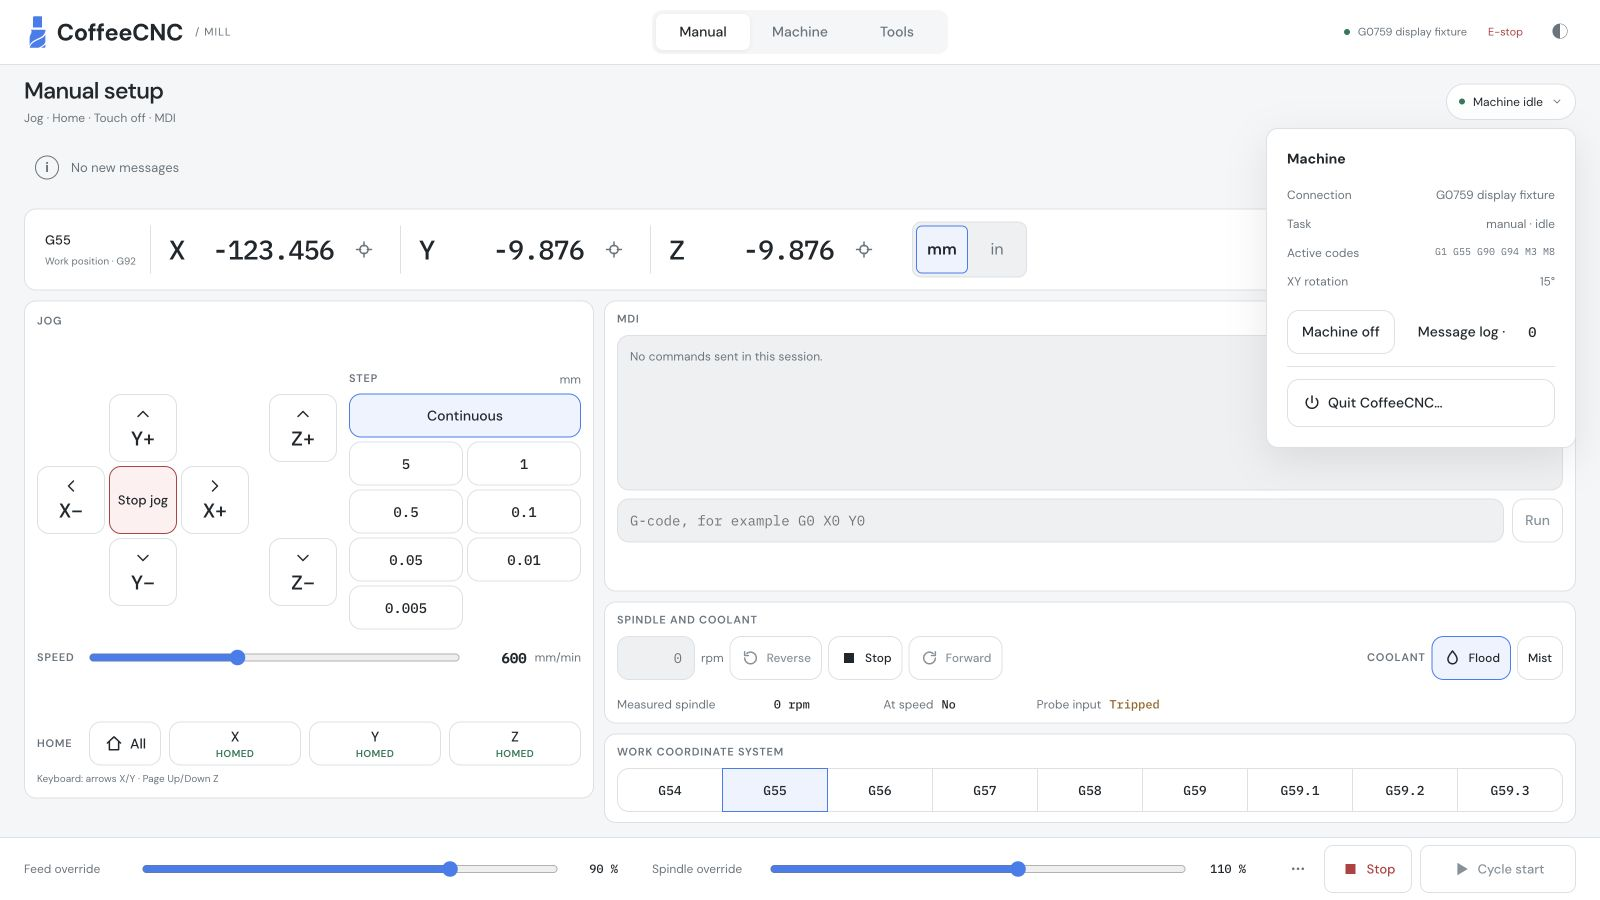
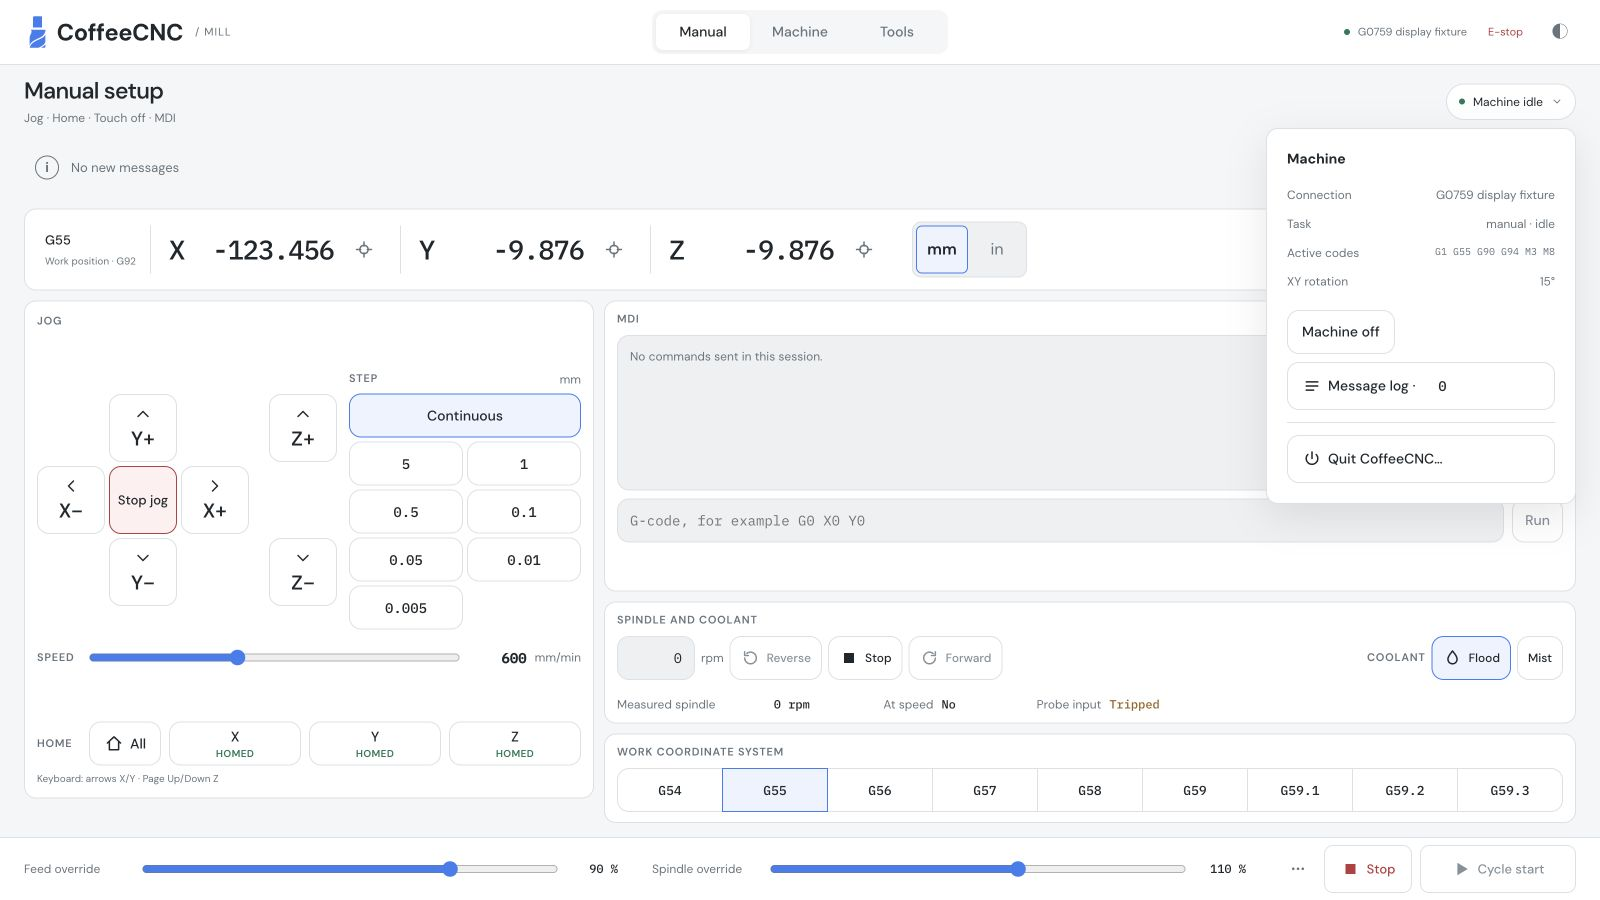
Apply running spindle RPM only on explicit confirmation

Changed region(s): [[0.7812, 0.4044, 1.0, 0.5289], [0.875, 0.3422, 0.9375, 0.3733]]

diff --git a/ui/test/spindle-speed.test.ts b/ui/test/spindle-speed.test.ts
@@ -1,0 +1,146 @@
+import { afterEach, beforeEach, describe, expect, it, vi } from 'vitest'
+import { mount, type VueWrapper } from '@vue/test-utils'
+import { defineComponent, nextTick } from 'vue'
+import ManualTab from '../src/components/ManualTab.vue'
+import NumericEntryDialog from '../src/components/NumericEntryDialog.vue'
+import { panel, send } from '../src/machine'
+import { numericEntry, touchInput } from '../src/numeric-input'
+import { hello, SimMachine } from '../src/sim/machine'
+
+vi.mock('../src/machine', async () => {
+  const { computed, reactive } = await import('vue')
+  const { requiresHoming } = await import('../src/machine-capabilities')
+  const panel = reactive({ hello: null, status: null, link: 'live', unit: 'mm', mdi: [], jogVelocity: 1500, jogIncrement: 1, tab: 'manual', notice: null, log: [] }) as unknown as typeof import('../src/machine').panel
+  return { panel, send: vi.fn(), dismissNotice: vi.fn(), onResult: (): (() => void) => (): void => undefined,
+    axes: computed(() => panel.status?.axes ?? []), reported: computed(() => panel.status),
+    live: computed(() => panel.link === 'live'),
+    manualBlock: computed(() => panel.link !== 'live' ? 'Link unavailable' :
+      panel.status?.machine !== 'on' ? 'Machine unavailable' : panel.status.interp !== 'idle' ? 'Machine busy' : null),
+    mdiBlock: computed(() => null), linkBlock: computed(() => null),
+    allHomed: computed(() => panel.status?.axes.every((axis) => axis.homed) ?? false),
+    homingActive: computed(() => panel.status?.axes.some((axis) => axis.homing) ?? false),
+    homingRequired: computed(() => requiresHoming(panel.hello)),
+  }
+})
+
+let wrapper: VueWrapper | null = null
+const originalScrollTo = Object.getOwnPropertyDescriptor(HTMLElement.prototype, 'scrollTo')
+beforeEach(() => {
+  vi.useFakeTimers(); vi.mocked(send).mockClear()
+  // jsdom has no scrolling implementation; the MDI history scroll is unrelated to this check.
+  Object.defineProperty(HTMLElement.prototype, 'scrollTo', { configurable: true, value: vi.fn() })
+  panel.hello = { ...hello, max_jog_velocity: 1500, axis_max_jog_velocity: { x: 1500, y: 1500, z: 750 } }
+  panel.status = new SimMachine({ emit: (): void => undefined }).status()
+  panel.status.machine = 'on'; panel.status.program.file = '/sim/test.ngc'
+  panel.link = 'live'; panel.unit = 'mm'; touchInput.value = false
+  panel.jogVelocity = 1500; panel.jogIncrement = 1
+})
+afterEach(() => {
+  const element = wrapper?.element as Element | undefined
+  wrapper?.unmount(); element?.remove(); numericEntry.value = null; vi.useRealTimers()
+  if (originalScrollTo === undefined) Reflect.deleteProperty(HTMLElement.prototype, 'scrollTo')
+  else Object.defineProperty(HTMLElement.prototype, 'scrollTo', originalScrollTo)
+})
+
+describe('explicit spindle speed confirmation', () => {
+  function setup(direction: 'forward' | 'reverse' | 'stopped' = 'forward'): NonNullable<typeof wrapper> {
+    if (panel.status === null) throw new Error('Missing status')
+    panel.status.spindle.direction = direction
+    panel.status.spindle.commanded_rpm = 1200
+    wrapper = mount(defineComponent({
+      components: { ManualTab, NumericEntryDialog },
+      template: '<div><ManualTab/><div id="dialogs"></div><div id="workspace-dialogs"></div><NumericEntryDialog/></div>',
+    }), { attachTo: document.body })
+    return wrapper
+  }
+  const selector = 'input[aria-label="Spindle speed, rpm"]'
+
+  it.each(['forward', 'reverse'] as const)('applies %s RPM once on Enter, never on typing or change', async (direction) => {
+    const view = setup(direction)
+    const input = view.get<HTMLInputElement>(selector)
+    expect(input.element.value).toBe('1200')
+    await input.setValue('1800')
+    expect(send).not.toHaveBeenCalled()
+    await input.trigger('keydown', { key: 'Enter' })
+    await input.trigger('keydown', { key: 'Enter', repeat: true })
+    await input.trigger('keydown', { key: 'Enter' })
+    await input.trigger('blur')
+    expect(vi.mocked(send).mock.calls).toEqual([[{ type: 'set_spindle', direction, rpm: 1800 }]])
+  })
+
+  it.each(['blur', 'Escape'])('discards an unconfirmed edit on %s and restores commanded RPM', async (event) => {
+    const view = setup()
+    const input = view.get<HTMLInputElement>(selector)
+    await input.setValue('1800')
+    if (panel.status) panel.status.spindle.commanded_rpm = 1400
+    await input.trigger(event === 'blur' ? 'blur' : 'keydown', { key: 'Escape' })
+    expect(input.element.value).toBe('1400')
+    expect(send).not.toHaveBeenCalled()
+  })
+
+  it('uses the current direction at confirmation, not the direction when editing began', async () => {
+    const view = setup()
+    await view.get(selector).setValue('1800')
+    if (panel.status) panel.status.spindle.direction = 'reverse'
+    await view.get(selector).trigger('keydown', { key: 'Enter' })
+    expect(send).toHaveBeenCalledExactlyOnceWith({ type: 'set_spindle', direction: 'reverse', rpm: 1800 })
+  })
+
+  it('keeps a stopped spindle stopped until an explicit direction button is pressed', async () => {
+    const view = setup('stopped')
+    await view.get(selector).setValue('1800')
+    await view.get(selector).trigger('keydown', { key: 'Enter' })
+    await view.get(selector).trigger('blur')
+    expect(send).not.toHaveBeenCalled()
+    const forward = view.findAll('button').find((button) => button.text() === 'Forward')
+    await forward?.trigger('click')
+    expect(send).toHaveBeenCalledExactlyOnceWith({ type: 'set_spindle', direction: 'forward', rpm: 1800 })
+  })
+
+  it.each(['', '0', '-1', 'no', 'Infinity'])('does not apply invalid RPM %j', async (value) => {
+    const view = setup()
+    await view.get(selector).setValue(value)
+    await view.get(selector).trigger('keydown', { key: 'Enter' })
+    expect(send).not.toHaveBeenCalled()
+  })
+
+  it.each(['stale', 'busy', 'estop', 'hello'] as const)('invalidates a draft after %s', async (change) => {
+    const view = setup()
+    const input = view.get<HTMLInputElement>(selector)
+    await input.setValue('1800')
+    if (change === 'stale') panel.link = 'stale'
+    else if (change === 'hello') panel.hello = { ...hello }
+    else if (panel.status) {
+      if (change === 'busy') panel.status.interp = 'reading'
+      else panel.status.machine = 'estop'
+    }
+    await nextTick()
+    await input.trigger('keydown', { key: 'Enter' })
+    expect(send).not.toHaveBeenCalled()
+    expect(input.element.value).toBe('1200')
+  })
+
+  it('opens the keypad at commanded RPM and applies only its explicit Set RPM action', async () => {
+    const view = setup('reverse')
+    const input = view.get(selector)
+    for (const type of ['pointerdown', 'pointerup']) {
+      const event = new Event(type, { bubbles: true, cancelable: true })
+      Object.defineProperties(event, { pointerType: { value: 'touch' }, pointerId: { value: 1 }, clientX: { value: 0 }, clientY: { value: 0 } })
+      input.element.dispatchEvent(event)
+    }
+    await nextTick()
+    expect(numericEntry.value?.initial).toBe('1200')
+    expect(view.text()).toContain('Applies this RPM immediately')
+    const dialog = view.get('[role="dialog"]')
+    await dialog.get('input').setValue('1800')
+    expect(send).not.toHaveBeenCalled()
+    const confirm = dialog.findAll('button').find((button) => button.text() === 'Set RPM')
+    expect(confirm).toBeDefined()
+    await confirm?.trigger('pointerdown', { pointerType: 'touch' })
+    await confirm?.trigger('pointerup', { pointerType: 'touch' })
+    await confirm?.trigger('click')
+    expect(send).toHaveBeenCalledExactlyOnceWith({ type: 'set_spindle', direction: 'reverse', rpm: 1800 })
+    expect(numericEntry.value).toBeNull()
+  })
+})
+

diff --git a/ui/src/components/ManualTab.vue b/ui/src/components/ManualTab.vue
@@ -298,25 +298,52 @@ watch(
 
 // ---- spindle and coolant ------------------------------------------------------------------------------
 
-const rpmText = ref<string>('')
-const rpm = computed(() => {
-  if (rpmText.value.trim() === '') {
-    return status.value?.spindle.commanded_rpm ?? 0
-  }
-  return parseNumber(rpmText.value)
+const rpmDraft = ref<string | null>(null)
+const presetRpm = ref<number | null>(null)
+const rpmText = computed({
+  get: () => rpmDraft.value ?? String(presetRpm.value ?? status.value?.spindle.commanded_rpm ?? 0),
+  set: (value: string) => { rpmDraft.value = value },
 })
+const rpm = computed(() => parseNumber(rpmText.value))
 const spindleBlock = computed((): string | null => {
   if (manualBlock.value !== null) {
     return manualBlock.value
   }
-  return rpm.value === null || rpm.value <= 0 ? 'Enter a spindle speed above zero' : null
+  return rpm.value === null || !Number.isFinite(rpm.value) || rpm.value <= 0 ? 'Enter a spindle speed above zero' : null
 })
 
 function spindle(direction: 'forward' | 'reverse'): void {
-  if (rpm.value !== null) {
+  if (spindleBlock.value === null && rpm.value !== null) {
     send({ type: 'set_spindle', direction, rpm: rpm.value })
+    presetRpm.value = null
   }
 }
+
+function confirmSpindleSpeed(event: Event): void {
+  if (event instanceof KeyboardEvent && event.repeat) return
+  if (rpmDraft.value === null || spindleBlock.value !== null || rpm.value === null) return
+  const direction = status.value?.spindle.direction
+  if (direction === 'forward' || direction === 'reverse') {
+    send({ type: 'set_spindle', direction, rpm: rpm.value })
+    presetRpm.value = null
+  } else {
+    // Choosing a speed while stopped never starts the spindle.
+    presetRpm.value = rpm.value
+  }
+  rpmDraft.value = null
+}
+
+function discardSpindleEdit(): void {
+  if (rpmDraft.value === null) return
+  rpmDraft.value = null
+  presetRpm.value = null
+}
+
+watch(() => status.value?.spindle.commanded_rpm, () => { presetRpm.value = null })
+watch([(): unknown => panel.hello, manualBlock], () => {
+  rpmDraft.value = null
+  presetRpm.value = null
+}, { flush: 'sync' })
 
 const coolantBlock = computed((): string | null => {
   const s = status.value
@@ -503,9 +530,15 @@ function coolant(which: 'flood' | 'mist'): void {
             class="field mono rpm"
             type="text"
             inputmode="decimal"
-            :placeholder="String(Math.round(status?.spindle.commanded_rpm ?? 0))"
+            :disabled="manualBlock !== null"
             autocomplete="off"
             aria-label="Spindle speed, rpm"
+            data-numeric-effect="Applies this RPM immediately if the spindle is running. When stopped, sets the speed for the next start."
+            data-numeric-action="Set RPM"
+            @numeric-confirm="confirmSpindleSpeed"
+            @keydown.enter.prevent="confirmSpindleSpeed"
+            @keydown.esc.prevent="discardSpindleEdit"
+            @blur="discardSpindleEdit"
           />
           <span class="hint">rpm</span>
           <button v-tooltip="spindleBlock ?? 'Spindle reverse (M4)'" class="btn" type="button" :class="{ on: status?.spindle.direction === 'reverse' }" :disabled="spindleBlock !== null" @click="spindle('reverse')">

diff --git a/ui/src/components/StatusBar.vue b/ui/src/components/StatusBar.vue
@@ -115,7 +115,7 @@ const subtitle = computed(() => {
           <button v-if="status?.machine === 'estop' || status?.machine === 'off'" class="btn" type="button" :disabled="!live" @click="power('off')">Reset E-stop</button>
           <button v-if="status?.machine === 'off'" class="btn" type="button" :disabled="!live" @click="power('on')">Machine on</button>
           <button v-else-if="status?.machine === 'on'" class="btn" type="button" :disabled="panel.link === 'incompatible'" @click="power('off')">Machine off</button>
-          <button class="btn quiet" type="button" @click="emit('log')">Message log · <span class="log-count mono">{{ panel.log.length }}</span></button>
+          <button class="btn menu-log" type="button" @click="emit('log')"><AppIcon name="list" />Message log · <span class="log-count mono">{{ panel.log.length }}</span></button>
         </div>
         <p v-if="pendingPower" class="notice" role="status">Waiting for machine {{ pendingPower.command.state }} confirmation…</p>
         <div class="application-actions">
@@ -164,7 +164,7 @@ h1 { margin: 0; font-size: 23px; line-height: 1.2; letter-spacing: -.7px; font-w
 .state-pill.warn .dot { background: var(--warn); }.state-pill.stop { color: var(--stop); }.state-pill.stop .dot { background: var(--stop); }
 .popover { top: calc(100% + 8px); }.notice { font-size: 12px; color: var(--text-dim); }
 .application-actions { margin-top: 12px; padding-top: 12px; border-top: 1px solid var(--line); }
-.quit { width: 100%; justify-content: flex-start; min-height: 48px; }
+.quit, .menu-log { width: 100%; justify-content: flex-start; min-height: 48px; }
 .modal-codes { max-width: 180px; font-size: 10px; text-align: right; }
 .message-area { flex: none; height: 58px; margin: 0 24px 12px; }
 .message-band { display: flex; align-items: center; gap: 12px; height: 100%; padding: 5px 10px; border: 1px solid var(--line); border-radius: 9px; background: var(--panel); }

diff --git a/ui/src/numeric-input.ts b/ui/src/numeric-input.ts
@@ -9,6 +9,8 @@ interface NumericEntry {
   initial: string
   label: string
   integer: boolean
+  effect?: string
+  action?: string
 }
 export const numericEntry = shallowRef<NumericEntry | null>(null)
 let nextEntry = 0
@@ -50,6 +52,8 @@ export function applyNumericEntry(value: number): boolean {
   target.value = String(value)
   target.dispatchEvent(new Event('input', { bubbles: true }))
   target.dispatchEvent(new Event('change', { bubbles: true }))
+  // Explicit keypad confirmation, distinct from a normal change/blur while typing.
+  target.dispatchEvent(new Event('numeric-confirm', { bubbles: true }))
   numericEntry.value = null
   return true
 }
@@ -71,6 +75,8 @@ export const vNumeric: ObjectDirective<HTMLInputElement, 'inline' | 'integer' | 
         key: ++nextEntry, target: input, initial: input.value,
         label: input.getAttribute('aria-label') ?? input.labels?.[0]?.textContent.trim() ?? 'Number',
         integer: binding.value === 'integer' || inputMode === 'numeric',
+        ...(input.dataset['numericEffect'] ? { effect: input.dataset['numericEffect'] } : {}),
+        ...(input.dataset['numericAction'] ? { action: input.dataset['numericAction'] } : {}),
       }
     }
     const inside = (point: { clientX: number; clientY: number }): boolean => {

diff --git a/ui/src/components/NumericEntryDialog.vue b/ui/src/components/NumericEntryDialog.vue
@@ -17,7 +17,7 @@ function confirm(value: number): void {
   <NumberDialog
     v-if="numericEntry" :key="numericEntry.key" :title="numericEntry.label" label="Value"
     unit="" :initial="numericEntry.initial" :integer="numericEntry.integer" :error="error" expanded
-    effect="Updates this field only. Apply or run its action separately." action="Use value"
+    :effect="numericEntry.effect ?? 'Updates this field only. Apply or run its action separately.'" :action="numericEntry.action ?? 'Use value'"
     @confirm="confirm" @close="numericEntry = null"
   />
 </template>
